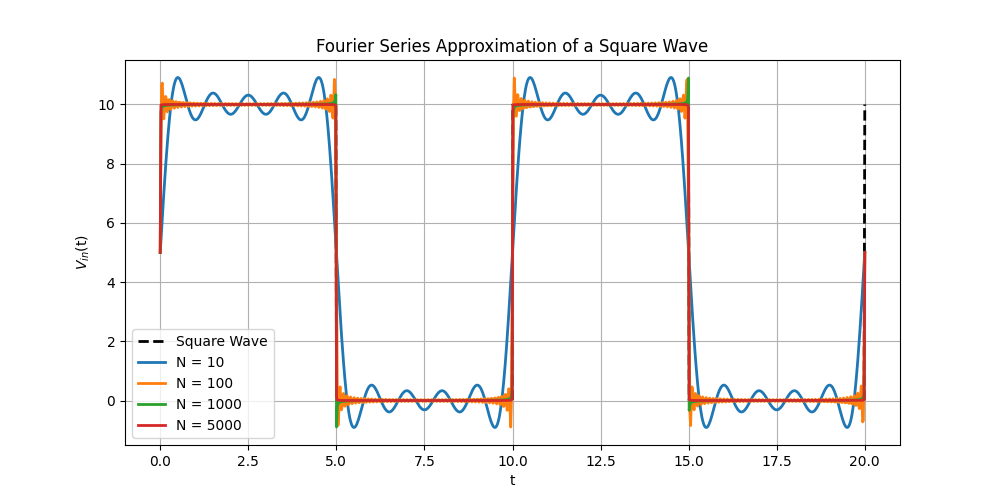
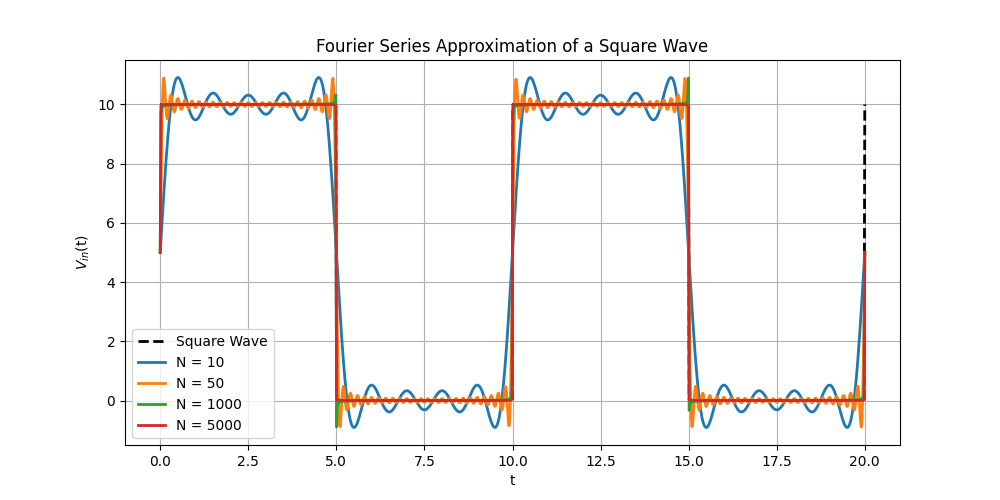
added error code

diff --git a/comparison.py b/comparison.py
@@ -33,15 +33,15 @@ t = np.linspace(0, 2 * T, 1000)
 
 print("Error over one interval between the actual square wave and the Fourier series approximation:")
 print("When N = 10:", error(T, alpha, N, amp))
-print("When N = 100:", error(T, alpha, N * 10, amp))
-print("When N = 1000:", error(T, alpha, N * 100, amp))
+print("When N = 50:", error(T, alpha, N * 5, amp))
+print("When N = 200:", error(T, alpha, N * 20, amp))
 print("When N = 5000:", error(T, alpha, N * 500, amp))
 
 plt.figure(figsize=(10, 5))
 
 plt.plot(t, square(t, T, alpha, amp), label="Square Wave", color="black", linewidth=2, linestyle="dashed")
 plt.plot(t, fourier_series(t, T, alpha, N), linewidth=2, label = "N = 10")
-plt.plot(t, fourier_series(t, T, alpha, 10 * N), linewidth=2, label = "N = 100")
+plt.plot(t, fourier_series(t, T, alpha, 5 * N), linewidth=2, label = "N = 50")
 plt.plot(t, fourier_series(t, T, alpha, 100 * N), linewidth=2, label = "N = 1000")
 plt.plot(t, fourier_series(t, T, alpha, 1000 * N), linewidth=2, label = "N = 5000")
 plt.xlabel("t")
